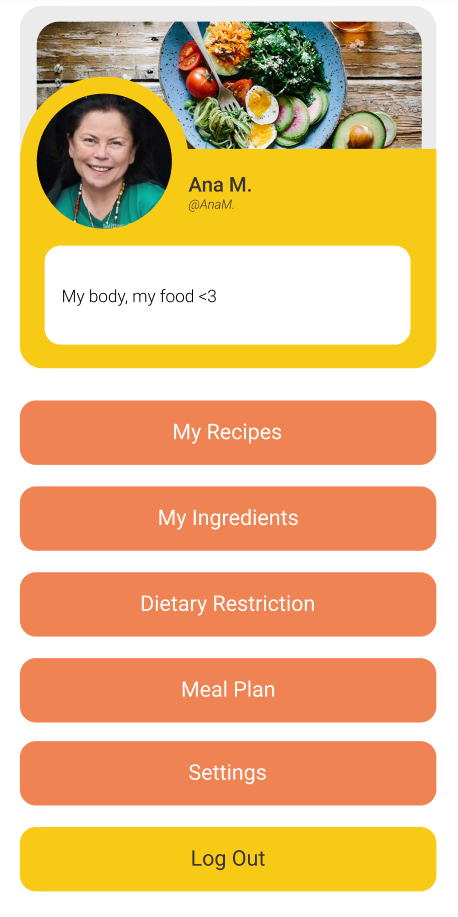
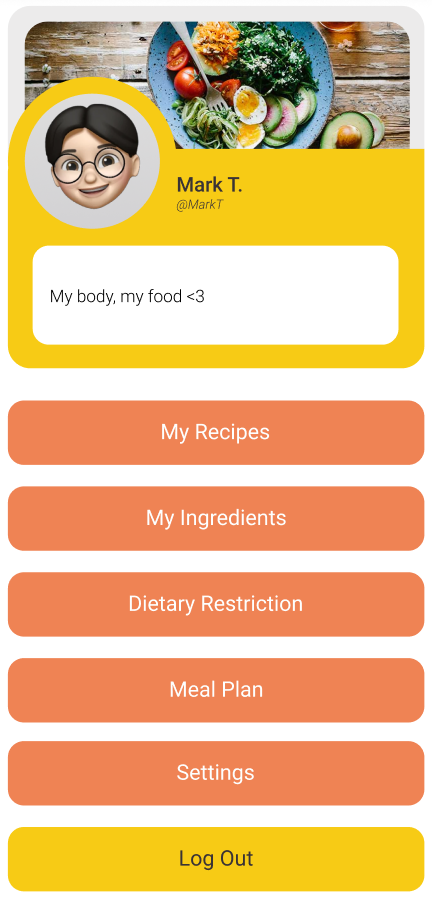
removing components, change profile

diff --git a/src/views/screens/ProfileScreen.js b/src/views/screens/ProfileScreen.js
@@ -3,7 +3,6 @@ import {SafeAreaView, StyleSheet, View, Text, Image} from 'react-native';
 import {FlatList, ScrollView} from 'react-native-gesture-handler';
 import Icon from 'react-native-vector-icons/MaterialIcons';
 import COLORS from '../../consts/colors';
-import foods from '../../consts/foods';
 import {PrimaryButton} from '../components/Button';
 
 const ProfileScreen = ({navigation}) => {
@@ -24,7 +23,7 @@ const ProfileScreen = ({navigation}) => {
       <View style={style.details}>
         <Image
               style={{
-                width: '100%',
+                width: '96%',
                 resizeMode: 'contain',
                 top: -64,
                 right: 0

diff --git a/src/views/screens/HomeScreen.js b/src/views/screens/HomeScreen.js
@@ -3,7 +3,6 @@ import {SafeAreaView, StyleSheet, View, Text, Image} from 'react-native';
 import {FlatList, ScrollView} from 'react-native-gesture-handler';
 import Icon from 'react-native-vector-icons/MaterialIcons';
 import COLORS from '../../consts/colors';
-import foods from '../../consts/foods';
 import {PrimaryButton} from '../components/Button';
 
 const HomeScreen = ({navigation}) => {
@@ -12,7 +11,7 @@ const HomeScreen = ({navigation}) => {
       <View style={style.header}>
       <Image
               style={{
-                width: '95%',
+                width: '94%',
                 resizeMode: 'contain',
                 top: 0,
                 right: -10,

diff --git a/src/views/screens/RecommenderScreen.js b/src/views/screens/RecommenderScreen.js
@@ -33,6 +33,7 @@ const RecommenderScreen = ({navigation}) => {
                 position: 'absolute',
                 right: 0,
                 top: -80}}
+
                 placeholder="   Enter an ingredient                                                               "/>
             </View>
             <View style={{
@@ -95,7 +96,7 @@ const RecommenderScreen = ({navigation}) => {
         </SafeAreaView>
       );
     };
-    
+
     const style = StyleSheet.create({
       textContainer: {
         flex: 1,

diff --git a/App.js b/App.js
@@ -19,7 +19,7 @@ const App = () => {
         <Stack.Screen name="BoardScreen" component={OnBoardScreen} />
         <Stack.Screen name="Home" component={BottomNavigator} />
         <Stack.Screen name="CookScreen" component={CookScreen}/>
-        <Stack.Screen name="Filters" component={FiltersScreen}/>  
+        <Stack.Screen name="Filters" component={FiltersScreen}/> 
       </Stack.Navigator>
     </NavigationContainer>
   );

diff --git a/src/views/screens/CommunityScreen.js b/src/views/screens/CommunityScreen.js
@@ -3,7 +3,6 @@ import {SafeAreaView, StyleSheet, View, Text, Image} from 'react-native';
 import {FlatList, ScrollView} from 'react-native-gesture-handler';
 import Icon from 'react-native-vector-icons/MaterialIcons';
 import COLORS from '../../consts/colors';
-import foods from '../../consts/foods';
 import {PrimaryButton} from '../components/Button';
 
 const CommunityScreen = ({navigation}) => {

diff --git a/src/views/screens/MealScreen.js b/src/views/screens/MealScreen.js
@@ -3,7 +3,6 @@ import {SafeAreaView, StyleSheet, View, Text, Image} from 'react-native';
 import {FlatList, ScrollView} from 'react-native-gesture-handler';
 import Icon from 'react-native-vector-icons/Ionicons';
 import COLORS from '../../consts/colors';
-import foods from '../../consts/foods';
 import {PrimaryButton} from '../components/Button';
 
 const ProfileScreen = ({navigation}) => {

diff --git a/src/views/screens/FiltersScreen.js b/src/views/screens/FiltersScreen.js
@@ -3,7 +3,6 @@ import {SafeAreaView, StyleSheet, View, Text, Image} from 'react-native';
 import {FlatList, ScrollView} from 'react-native-gesture-handler';
 import Icon from 'react-native-vector-icons/Feather';
 import COLORS from '../../consts/colors';
-import foods from '../../consts/foods';
 
 const FiltersScreen = ({navigation}) => {
   return (

diff --git a/src/views/screens/CookScreen.js b/src/views/screens/CookScreen.js
@@ -3,7 +3,6 @@ import {SafeAreaView, StyleSheet, View, Text, Image} from 'react-native';
 import {FlatList, ScrollView} from 'react-native-gesture-handler';
 import Icon from 'react-native-vector-icons/Feather';
 import COLORS from '../../consts/colors';
-import foods from '../../consts/foods';
 
 const CookScreen = ({navigation}) => {
   return (
